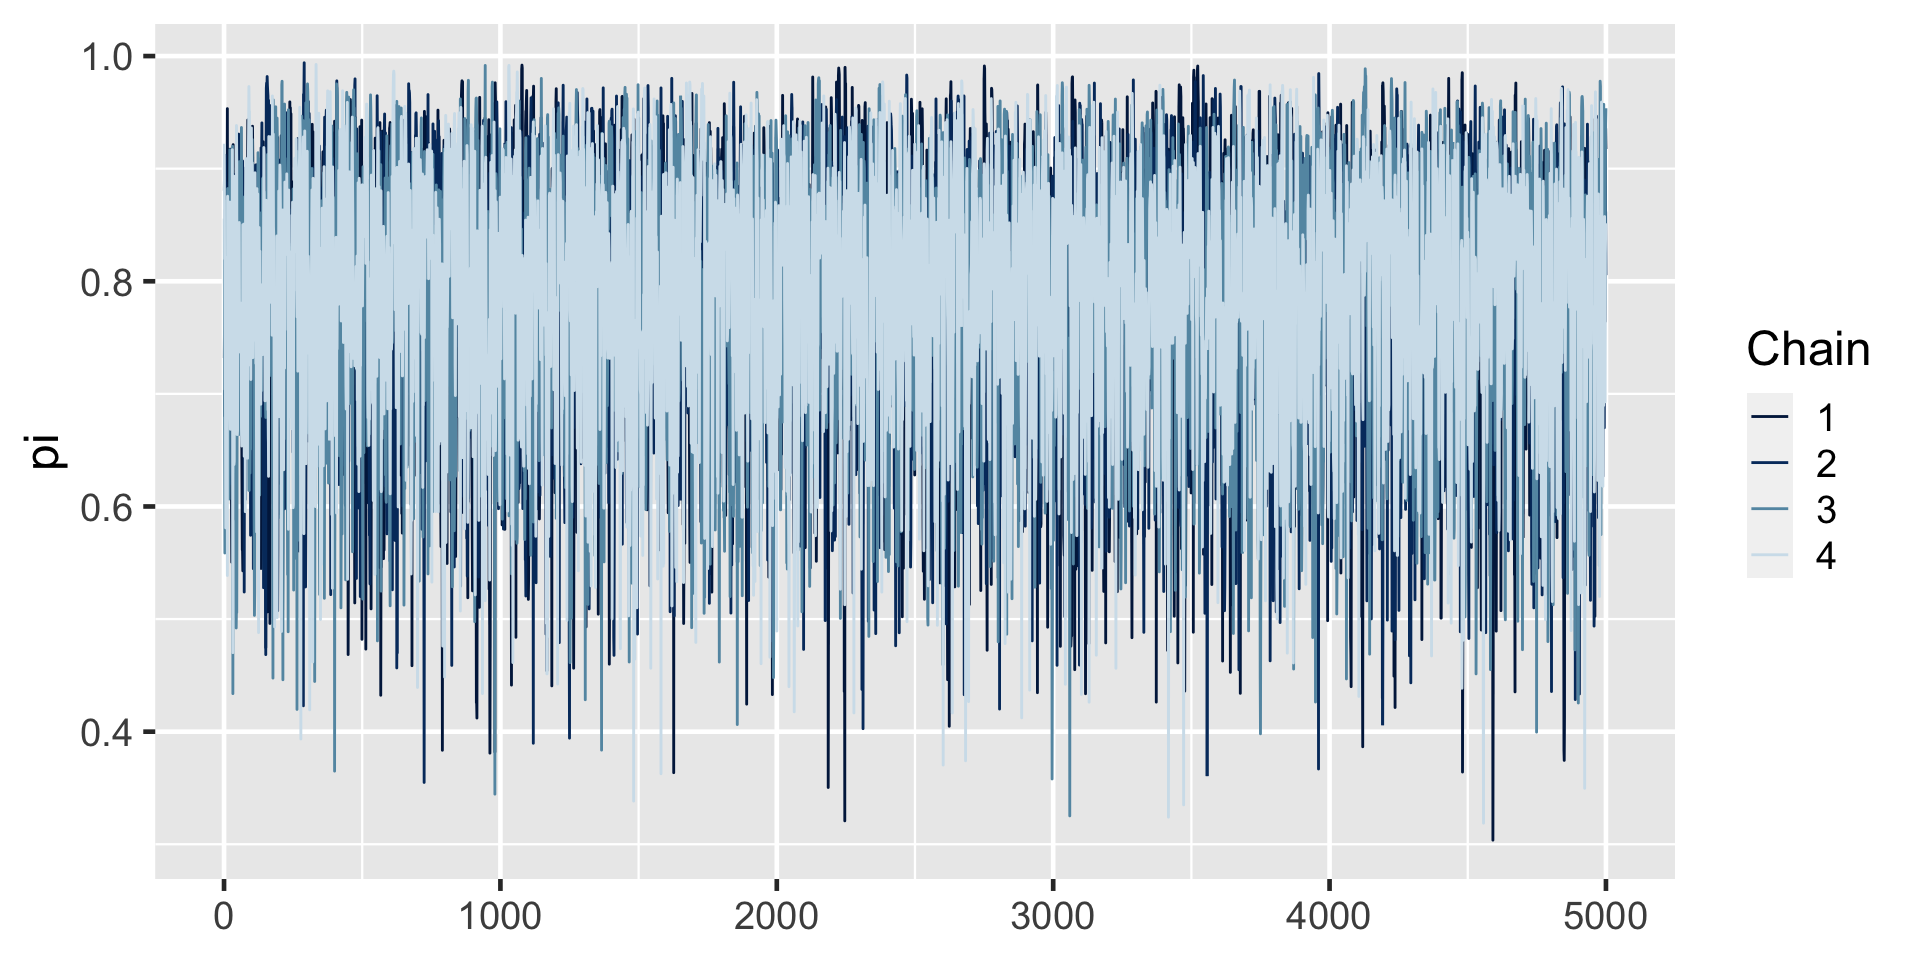
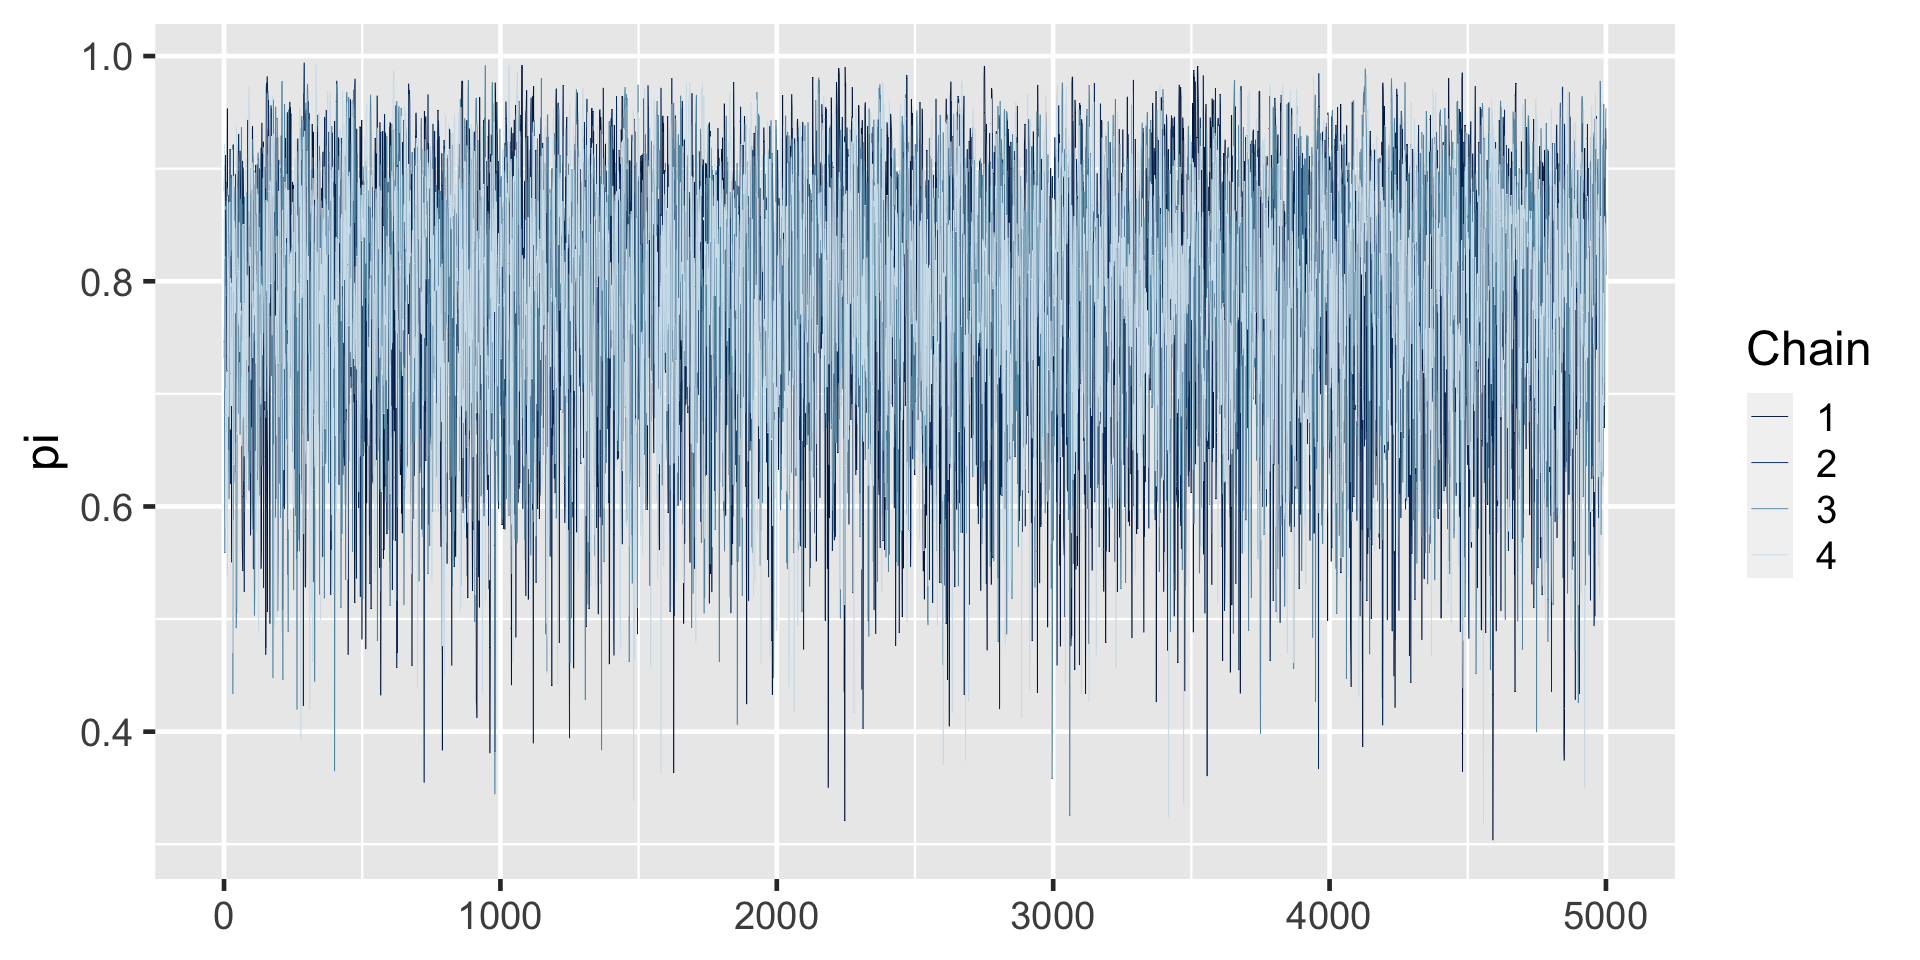
fix typo

Changed region(s): [[0.0938, 0.0625, 0.8438, 0.8125]]

diff --git a/week05/5a-posterior-approximation.html b/week05/5a-posterior-approximation.html
@@ -644,6 +644,11 @@ Dr.&nbsp;Mine Dogucu
 <ol type="1">
 <li class="fragment">Define a discrete grid of possible <span class="math inline">\(\theta\)</span> values.</li>
 <li class="fragment">Evaluate the prior pdf <span class="math inline">\(f(\theta)\)</span> and likelihood function <span class="math inline">\(L(\theta|y)\)</span> at each <span class="math inline">\(\theta\)</span> grid value.</li>
+</ol>
+</section>
+<section id="section-5" class="slide level2">
+<h2></h2>
+<ol start="3" type="1">
 <li class="fragment">Obtain a discrete approximation of posterior pdf <span class="math inline">\(f(\theta |y)\)</span> by: (a) calculating the product <span class="math inline">\(f(\theta)L(\theta|y)\)</span> at each <span class="math inline">\(\theta\)</span> grid value; and then (b) <em>normalizing</em> the products so that they sum to 1 across all <span class="math inline">\(\theta\)</span>.</li>
 <li class="fragment">Randomly sample <span class="math inline">\(N\)</span> <span class="math inline">\(\theta\)</span> grid values with respect to their corresponding normalized posterior probabilities.</li>
 </ol>
@@ -659,7 +664,7 @@ Dr.&nbsp;Mine Dogucu
 <section id="markov-chains-via-rstan" class="slide level2">
 <h2>Markov chains via rstan</h2>
 </section>
-<section id="section-5" class="slide level2">
+<section id="section-6" class="slide level2">
 <h2></h2>
 <div class="cell">
 <div class="sourceCode cell-code" id="cb24"><pre class="sourceCode numberSource r number-lines code-with-copy"><code class="sourceCode r"><span id="cb24-1"><a href="#cb24-1"></a><span class="fu">library</span>(rstan)</span></code><button title="Copy to Clipboard" class="code-copy-button"><i class="bi"></i></button></pre></div>
@@ -794,7 +799,7 @@ Chain 4: </code></pre>
 </div>
 </div>
 </section>
-<section id="section-6" class="slide level2">
+<section id="section-7" class="slide level2">
 <h2></h2>
 <div class="cell">
 <div class="sourceCode cell-code" id="cb28"><pre class="sourceCode numberSource r number-lines code-with-copy"><code class="sourceCode r"><span id="cb28-1"><a href="#cb28-1"></a><span class="fu">as.array</span>(bb_sim, <span class="at">pars =</span> <span class="st">"pi"</span>) <span class="sc">%&gt;%</span> </span>
@@ -811,7 +816,7 @@ iterations   chain:1   chain:2   chain:3   chain:4
 </div>
 </div>
 </section>
-<section id="section-7" class="slide level2">
+<section id="section-8" class="slide level2">
 <h2></h2>
 <div class="cell">
 <div class="sourceCode cell-code" id="cb30"><pre class="sourceCode numberSource r number-lines code-with-copy"><code class="sourceCode r"><span id="cb30-1"><a href="#cb30-1"></a><span class="fu">as.array</span>(bb_sim, <span class="at">pars =</span> <span class="st">"pi"</span>) <span class="sc">%&gt;%</span> </span>
@@ -828,7 +833,7 @@ iterations   chain:1   chain:2   chain:3   chain:4
 </div>
 </div>
 </section>
-<section id="section-8" class="slide level2">
+<section id="section-9" class="slide level2">
 <h2></h2>
 <div class="cell">
 <div class="sourceCode cell-code" id="cb32"><pre class="sourceCode numberSource r number-lines code-with-copy"><code class="sourceCode r"><span id="cb32-1"><a href="#cb32-1"></a><span class="fu">as.array</span>(bb_sim, <span class="at">pars =</span> <span class="st">"pi"</span>) <span class="sc">%&gt;%</span> </span>
@@ -5839,11 +5844,11 @@ iterations   chain:1   chain:2   chain:3   chain:4
 </div>
 </div>
 </section>
-<section id="section-9" class="slide level2">
+<section id="section-10" class="slide level2">
 <h2></h2>
 
 <img data-src="5a-posterior-approximation_files/figure-revealjs/unnamed-chunk-28-1.png" width="960" class="r-stretch"></section>
-<section id="section-10" class="slide level2">
+<section id="section-11" class="slide level2">
 <h2></h2>
 <div class="cell">
 <div class="sourceCode cell-code" id="cb34"><pre class="sourceCode numberSource r number-lines code-with-copy"><code class="sourceCode r"><span id="cb34-1"><a href="#cb34-1"></a>bayesplot<span class="sc">::</span><span class="fu">mcmc_trace</span>(bb_sim, <span class="at">pars =</span> <span class="st">"pi"</span>, <span class="at">size =</span> <span class="fl">0.5</span>)</span></code><button title="Copy to Clipboard" class="code-copy-button"><i class="bi"></i></button></pre></div>
